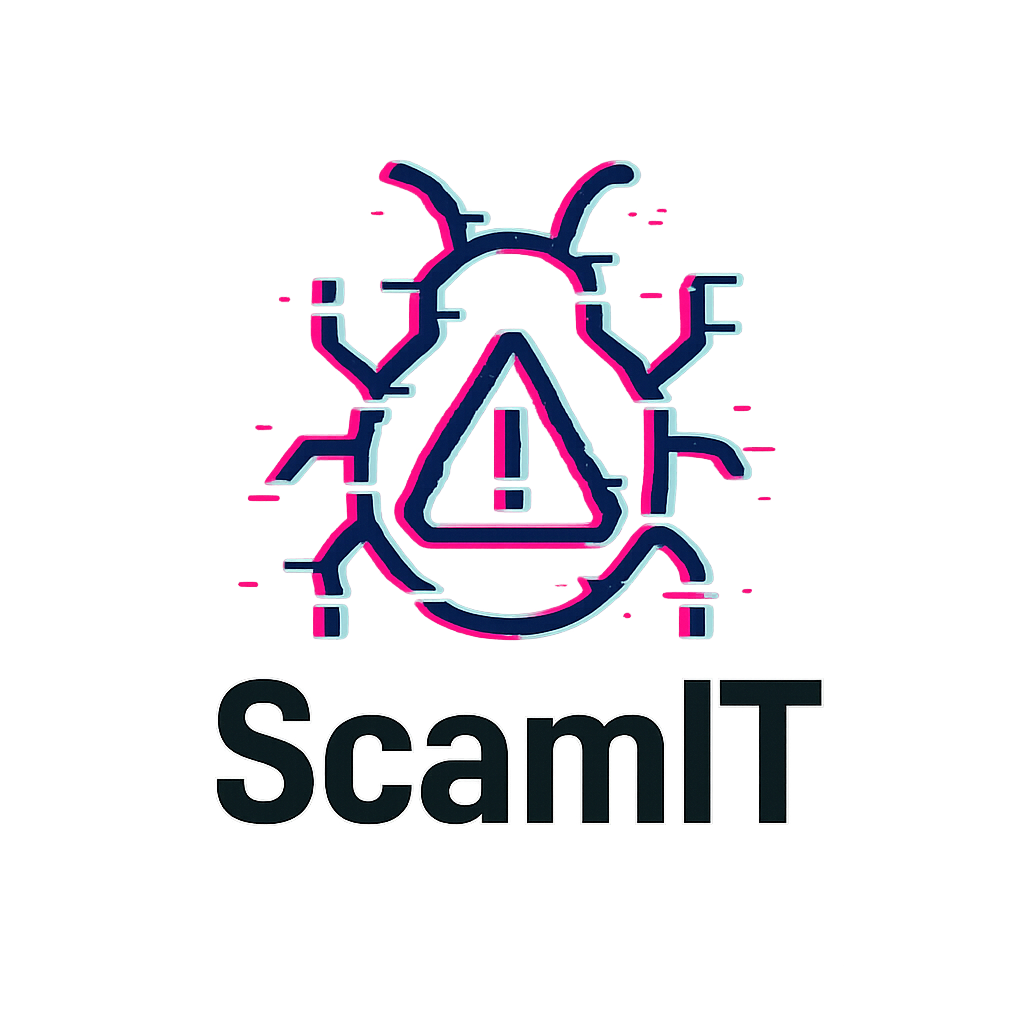
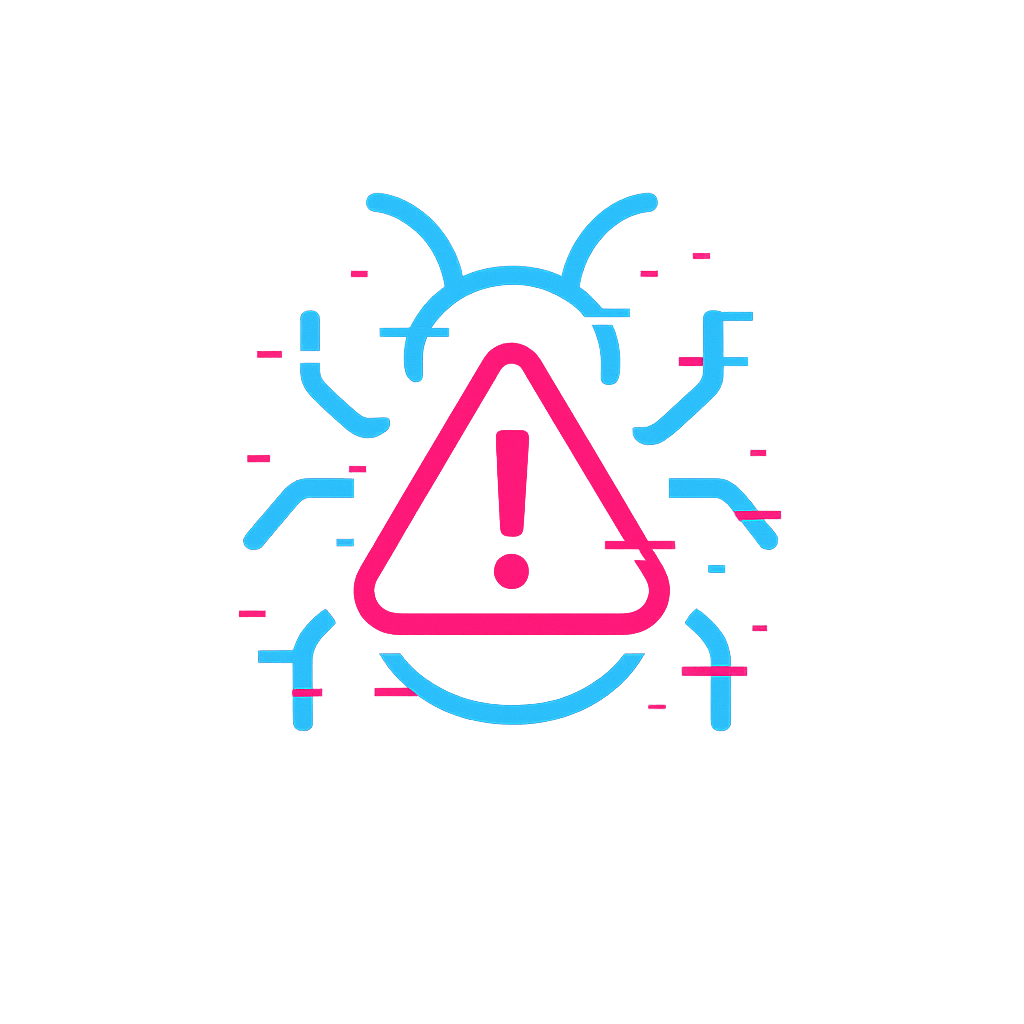
iconupdated

Changed region(s): [[0.1875, 0.1562, 0.8125, 0.8125], [0.2188, 0.5938, 0.25, 0.625]]

diff --git a/popup.html b/popup.html
@@ -52,12 +52,14 @@
       background-color: #5b52e6;
     }
 
-    img {
-      border-radius: 50%;
-      background-color: #fff;
-      padding: 6px;
-      box-shadow: 0 2px 4px rgba(0,0,0,0.1);
-      margin-top: 10px;
+    img.logo {
+      width: 48px;
+      height: auto;
+      border-radius: 0;
+      background-color: transparent;
+      padding: 0;
+      box-shadow: none;
+      margin-top: 0;
     }
 
     #visualResult {
@@ -110,11 +112,10 @@
       transition: all 0.2s ease-in-out;
     }
   </style>
-
 </head>
 <body>
   <h1>
-    <img src="icons/shield.png" width="24" height="24" alt="ScamIT Logo" />
+    <img src="icons/scamit.png" alt="ScamIT Logo" class="logo" />
     ScamIT
   </h1>
 
